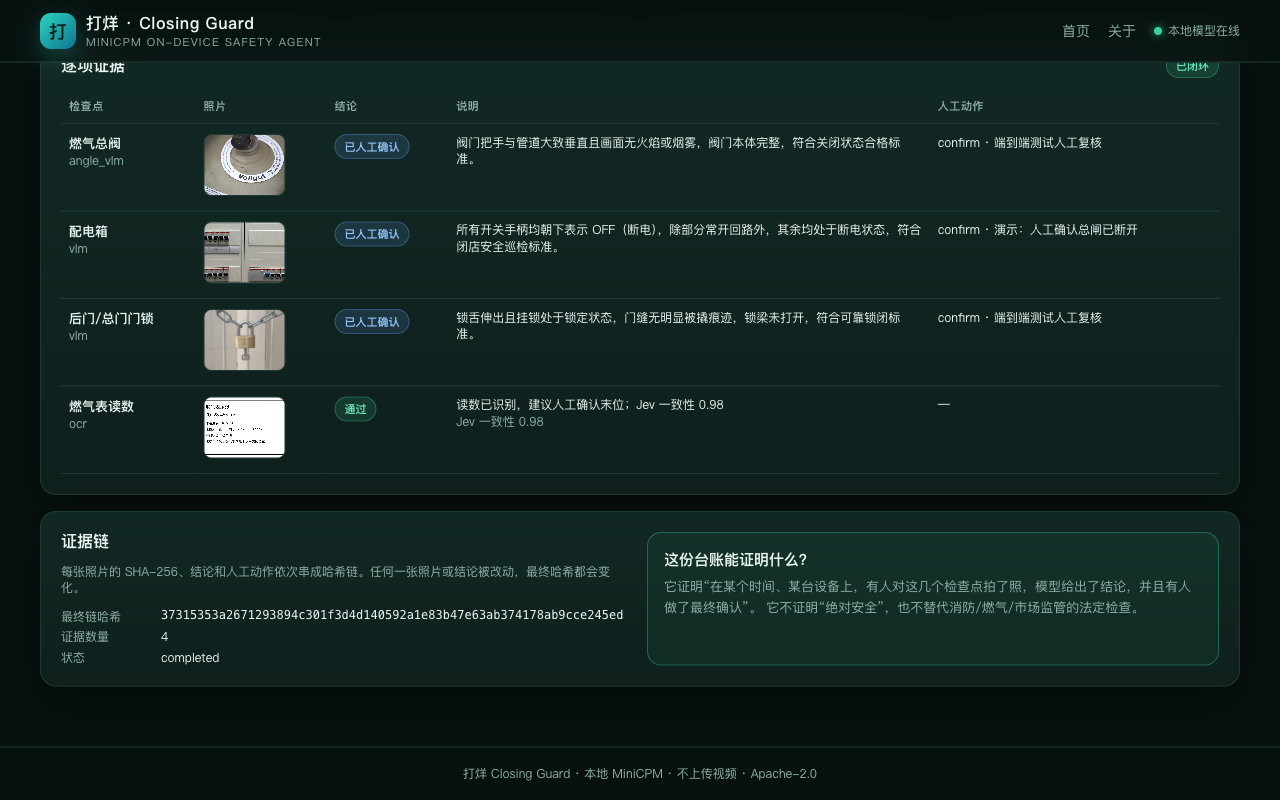
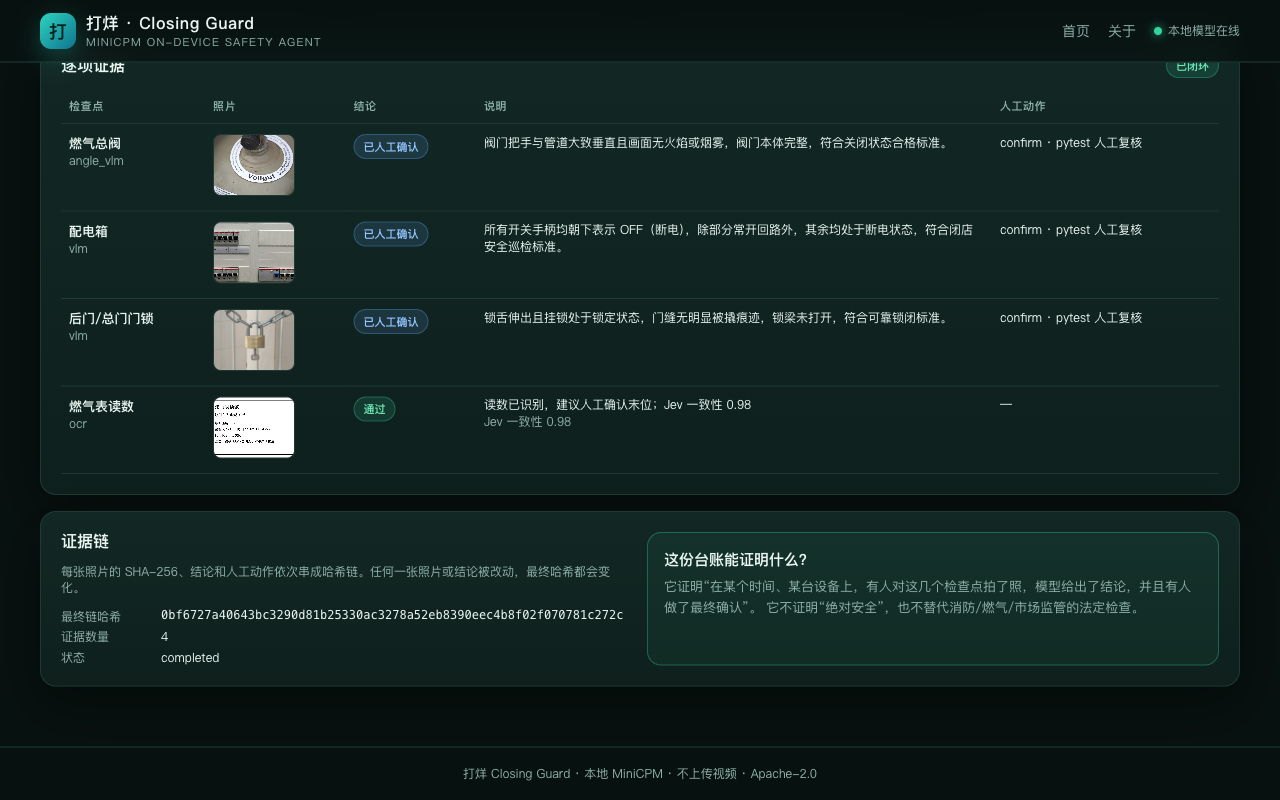
fix(gate): block cross-checkpoint samples and fail-without-retake; harden verify; align docs with implementation

diff --git a/web/src/components/CameraCard.tsx b/web/src/components/CameraCard.tsx
@@ -12,6 +12,13 @@ interface Sample {
   url: string;
 }
 
+const SAMPLE_PREFIX: Record<string, RegExp> = {
+  gas_valve: /^gas_(valve|stove)/,
+  power_panel: /^power_panel/,
+  door_lock: /^door_/,
+  gas_meter: /^(gas_meter|water_meter)/,
+};
+
 export default function CameraCard({ checkpoint, busy, onCapture }: Props) {
   const videoRef = useRef<HTMLVideoElement | null>(null);
   const streamRef = useRef<MediaStream | null>(null);
@@ -70,6 +77,9 @@ export default function CameraCard({ checkpoint, busy, onCapture }: Props) {
       .then(setSamples)
       .catch(() => setSamples([]));
   }, []);
+
+  const pattern = SAMPLE_PREFIX[checkpoint.id];
+  const usableSamples = pattern ? samples.filter((s) => pattern.test(s.name)) : samples;
 
   const capture = () => {
     const video = videoRef.current;
@@ -144,7 +154,7 @@ export default function CameraCard({ checkpoint, busy, onCapture }: Props) {
             onChange={(e) => onFile(e.target.files?.[0])}
           />
         </label>
-        {samples.length > 0 && (
+        {usableSamples.length > 0 && (
           <select
             className="select btn-sm"
             style={{ width: 150 }}
@@ -153,7 +163,7 @@ export default function CameraCard({ checkpoint, busy, onCapture }: Props) {
             aria-label="使用样张"
           >
             <option value="">使用样张…</option>
-            {samples.map((s) => (
+            {usableSamples.map((s) => (
               <option key={s.name} value={s.url}>{s.name}</option>
             ))}
           </select>

diff --git a/web/src/pages/Report.tsx b/web/src/pages/Report.tsx
@@ -103,7 +103,7 @@ export default function ReportPage() {
           <div>
             <h3>证据链</h3>
             <p className="small muted">
-              每张照片的 SHA-256、结论和人工动作依次串成哈希链。任何一张照片或结论被改动，最终哈希都会变化。
+              每张照片的 SHA-256 与判定结论依次串成哈希链。校验接口会重算图片哈希与整条链；照片被替换、记录被删改都会报 valid=false。
             </p>
             <div className="kv">
               <span className="k">最终链哈希</span><span className="v mono">{session.chain_hash ?? "未完成"}</span>

diff --git a/server/app/templates/report.html b/server/app/templates/report.html
@@ -200,7 +200,7 @@
       <div style="font-weight:800; color:#0f3d38;">扫码复核这份台账</div>
       <div class="small">验证地址：{{ verify_url }}</div>
       <div class="small">最终链哈希：<span class="mono">{{ session.chain_hash or '（未完成）' }}</span></div>
-      <div class="small">任何一张照片或一条结论被改动，链哈希都会变化。</div>
+      <div class="small">校验接口会重算图片 SHA-256 与整条链；照片被替换或记录被删改都会报 valid=false。</div>
     </div>
   </div>
 

diff --git a/server/app/agent.py b/server/app/agent.py
@@ -103,21 +103,25 @@ def _fuse(
 
         # Geometry cross-check: if the handle clearly moved away from the
         # known-good reference, do not accept a semantic "pass".
-        if (
-            cv_result
-            and cv_result.get("delta") is not None
-            and cv_result.get("confidence", 0.0) >= config.CV_MIN_CONFIDENCE
-        ):
+        if cv_result and cv_result.get("delta") is not None:
             tolerance = (
                 checkpoint.angle.tolerance
                 if checkpoint.angle
                 else config.ANCHOR_ANGLE_TOLERANCE
             )
             if cv_result["delta"] > tolerance:
+                cv_conf = float(cv_result.get("confidence", 0.0))
+                if cv_conf >= config.CV_MIN_CONFIDENCE:
+                    return (
+                        "fail",
+                        min(confidence, cv_conf),
+                        f"几何交叉检查未通过：{cv_result.get('reason', '')}",
+                    )
+                # 几何证据指向“不合格”，但置信不足：不允许放行，至少要求人工确认。
                 return (
-                    "fail",
-                    min(confidence, cv_result.get("confidence", 0.0)),
-                    f"几何交叉检查未通过：{cv_result.get('reason', '')}",
+                    "unsure",
+                    min(confidence, cv_conf),
+                    f"几何交叉检查与语义判断冲突（置信度 {cv_conf:.2f}）：{cv_result.get('reason', '')}，请重拍或人工确认",
                 )
 
         if verdict == "pass" and confidence >= config.VLM_MIN_CONFIDENCE:
@@ -130,6 +134,8 @@ def _fuse(
         reading = ocr_result.get("reading")
         jev_result = ocr_result.get("jev") or {}
         prob = jev_result.get("prob_1")
+        if prob is None:
+            return "unsure", 0.0, "Jev 一致性检查不可用（超时或服务未就绪），不能自动放行，请人工确认"
         if reading and prob is not None and float(prob) < config.JEV_REVIEW_SCORE:
             return "unsure", float(prob), "Jev 一致性分数很低，读数与图像可能不一致，请人工确认"
         if reading and prob is not None and float(prob) < config.JEV_MIN_SCORE:
@@ -325,7 +331,9 @@ def complete(session_id: str) -> SessionOut:
         if not latest:
             unresolved.append(f"{checkpoint.name}：未检查")
             continue
-        if latest["verdict"] in {"fail", "unsure"} and latest["human_action"] not in {
+        if latest["verdict"] == "fail":
+            unresolved.append(f"{checkpoint.name}：判定未通过，需重拍后再完成")
+        elif latest["verdict"] == "unsure" and latest["human_action"] not in {
             "confirm",
             "resolved",
         }:
@@ -359,10 +367,21 @@ def verify_chain(session_id: str) -> dict[str, Any]:
         raise ValueError("session not found")
     evidence = db.list_evidence(session_id)
     prev = _sha256(session_id.encode("utf-8"))
-    ok = True
+    ok = bool(evidence)
     for item in evidence:
+        # 链字段自洽
+        if item.get("prev_hash") != prev:
+            ok = False
+            break
         expected = _chain_hash(prev, _chain_payload(item))
         if expected != item["chain_hash"]:
+            ok = False
+            break
+        # 证据图片仍与入库时的 SHA-256 一致
+        path = Path(item["image_path"])
+        if not path.is_absolute():
+            path = config.RUNS_DIR / path
+        if not path.exists() or _sha256(path.read_bytes()) != item["image_sha256"]:
             ok = False
             break
         prev = item["chain_hash"]

diff --git a/tools/make_video_v2.py b/tools/make_video_v2.py
@@ -1,7 +1,7 @@
 #!/usr/bin/env python3
 """Closing Guard — demo video v2 (real UI footage + captions + single narrator).
 
-Why v2: the v1 video was slides + TTS, which reads as AI-generated.
+Why v2: the v1 video relied on slides; v2 uses recorded product footage.
 v2 uses the recorded product flow (tools/record_flow.cjs) as primary footage,
 adds short captions, and one calm male narration. No slide decks.
 
@@ -168,17 +168,20 @@ def main():
     still(OUTDIR / "s1_title.png", 3.0, OUTDIR / "a1.mp4")
     segs.append(OUTDIR / "a1.mp4")
 
-    trim_with_caption(FLOW, 2.0, 25.0, "以前闭店：拍张照，发群里", OUTDIR / "a2.mp4")
+    trim_with_caption(FLOW, 8.0, 22.0, "以前闭店：拍张照，发群里", OUTDIR / "a2.mp4")
     segs.append(OUTDIR / "a2.mp4")
 
-    trim_with_caption(FLOW, 139.5, 10.5, "现在：每项留证据，最后出一份台账", OUTDIR / "a3.mp4")
+    trim_with_caption(FLOW, 55.0, 16.0, "AI 判不合格：必须重拍或整改，不能点完成", OUTDIR / "a3.mp4")
     segs.append(OUTDIR / "a3.mp4")
+
+    trim_with_caption(FLOW, 170.0, 14.0, "每项留证据，最后出一份带哈希链的台账", OUTDIR / "a3b.mp4")
+    segs.append(OUTDIR / "a3b.mp4")
 
     still(OUTDIR / "s4_numbers.png", 5.0, OUTDIR / "a4.mp4")
     segs.append(OUTDIR / "a4.mp4")
 
     # Web 端真实截图（真实样张上传，非模拟器虚拟相机）
-    for name, out in [("web_05_panel.png", "a5.mp4"), ("web_06_door.png", "a6.mp4"), ("web_08_report.png", "a6b.mp4")]:
+    for name, out in [("web_04_gas_confirm.png", "a5.mp4"), ("web_08_report.png", "a6.mp4")]:
         src = ROOT / "docs" / "screenshots" / name
         run(["ffmpeg", "-y", "-loop", "1", "-t", "3.2", "-i", str(src),
              "-vf", f"scale=-2:{H-40},pad={W}:{H}:(ow-iw)/2:(oh-ih)/2:color=0x101214",
@@ -203,7 +206,7 @@ def main():
     )
 
     # 音轨：静音底 + 旁白按时间点插入
-    offsets = {"l1": 4.0, "l2": 8.0, "l3": 27.5, "l4": 40.0, "l5": 52.0}
+    offsets = {"l1": 4.0, "l2": 8.0, "l3": 30.0, "l4": 48.0, "l5": 58.0}
     inputs = ["-f", "lavfi", "-t", str(total), "-i", "anullsrc=r=44100:cl=stereo"]
     filters = []
     for i, (key, off) in enumerate(offsets.items(), start=1):

diff --git a/server/app/config.py b/server/app/config.py
@@ -35,7 +35,7 @@ JEV_MODEL = os.getenv("CG_JEV_MODEL", "MiniCPM-OCR-Jev")
 
 # Public base URL is used for the QR code in the PDF report.  It can be a
 # LAN address in a real shop, or http://localhost:8000 in the emulator demo.
-PUBLIC_BASE_URL = os.getenv("CG_PUBLIC_BASE_URL", "http://localhost:8000")
+PUBLIC_BASE_URL = os.getenv("CG_PUBLIC_BASE_URL", "http://127.0.0.1:8010")
 
 # Image-quality gates.  They are intentionally conservative: a bad image
 # should become "unsure" and be re-captured rather than silently passed.
@@ -51,4 +51,4 @@ JEV_REVIEW_SCORE = float(os.getenv("CG_JEV_REVIEW_SCORE", "0.20"))
 ANCHOR_ANGLE_TOLERANCE = float(os.getenv("CG_ANGLE_TOLERANCE", "12"))
 CV_MIN_CONFIDENCE = float(os.getenv("CG_CV_MIN_CONFIDENCE", "0.35"))
 
-VERSION = "0.1.2"
+VERSION = "0.1.3"

diff --git a/server/app/db.py b/server/app/db.py
@@ -210,6 +210,14 @@ def set_human_action(evidence_id: str, action: str, note: str) -> None:
         )
 
 
+def update_evidence_chain(evidence_id: str, chain_hash: str, prev_hash: str) -> None:
+    with get_conn() as conn:
+        conn.execute(
+            "UPDATE evidence SET chain_hash = ?, prev_hash = ? WHERE id = ?",
+            (chain_hash, prev_hash, evidence_id),
+        )
+
+
 def _evidence_row(row: sqlite3.Row | None) -> dict[str, Any] | None:
     if not row:
         return None

diff --git a/server/app/main.py b/server/app/main.py
@@ -23,7 +23,7 @@ app = FastAPI(
 
 app.add_middleware(
     CORSMiddleware,
-    allow_origins=["*"],
+    allow_origin_regex=r"^https?://(localhost|127\.0\.0\.1)(:\d+)?$",
     allow_credentials=False,
     allow_methods=["*"],
     allow_headers=["*"],

diff --git a/docs/BENCHMARKS.md b/docs/BENCHMARKS.md
@@ -42,7 +42,7 @@ These are warm-cache measurements. A cold process load adds a few seconds.
 | Prompt processing | **156 tok/s** |
 | Generation | **40 tok/s** |
 | Synthetic gas-meter card | `reading=00123.456`, `unit=m³`, pass |
-| Real water meter | `reading=0.0562` (expected stable digits `00565`); returns **unsure** because the last digit is rolling |
+| Real water meter | `reading=0.056`（原始 OCR 文本 `0.0562`，归一化到 3 位小数）; returns **unsure** because the last digit is rolling |
 | PDF/receipt text | strong on large Chinese text; not a substitute for a dedicated meter OCR + human confirmation |
 
 ## MiniCPM-OCR Jev on M1
@@ -64,7 +64,7 @@ threshold is calibrated on the test card, not on a store.
 - 8 images, 4 checkpoints, 2 images per checkpoint.
 - **Verdict accuracy: 87.5%**
 - **False pass on expected-fail items: 0**
-- Mean capture latency: **3.01 s** (warm cache)
+- Mean capture latency: 见 `reports/eval.json`（2026-11-14 运行为 **1.85 s**，warm cache；每次运行不同）
 - The power-panel ON image returned `unsure` in the final run; in an earlier run
   the 1B returned `pass` with 0.8 confidence on the same ON panel. This variance
   is why critical items require human confirmation.

diff --git a/docs/TESTING.md b/docs/TESTING.md
@@ -20,7 +20,7 @@
 | Android WebView e2e: real UI + real models + chain | `python scripts/android_e2e.py` | **ANDROID_E2E_OK**; `valid=true` |
 | Android camera path | UI "拍照核验" on emulator | `source=camera`, quality ok, verdict fail (virtual scene) |
 | Jev OCR gate | `gas_meter_card.jpg` / `water_meter.jpg` | card **0.983** → pass; water meter **0.004** → unsure |
-| Pilot evaluation | `python scripts/eval.py` | **8 samples, 87.5%, 0 false pass, 3.01s mean** |
+| Pilot evaluation | `python scripts/eval.py` | **8 samples, 87.5%, 0 false pass**（延迟以 `reports/eval.json` 为准，每次运行不同） |
 | Web build | `cd web && npm run build` | passed |
 
 ## Environment used

diff --git a/docs/SAFETY.md b/docs/SAFETY.md
@@ -18,7 +18,8 @@ re-shoot when unsure, and produces an evidence ledger.
 1. A critical checkpoint (`gas_valve`, `power_panel`, `door_lock`) **cannot** be
    closed by a model `pass` alone. `agent.complete()` returns HTTP 409 until a
    human action is recorded.
-2. A `fail` or `unsure` cannot be closed without a human `confirm` or
+2. A `fail` cannot be closed by a human action alone: the checkpoint must be
+   re-captured and pass. An `unsure` can be closed by a human `confirm` or
    `resolved` action.
 3. A suspected flame (CV colour cross-check) forces `fail`, even if the 1B says
    `pass`.
